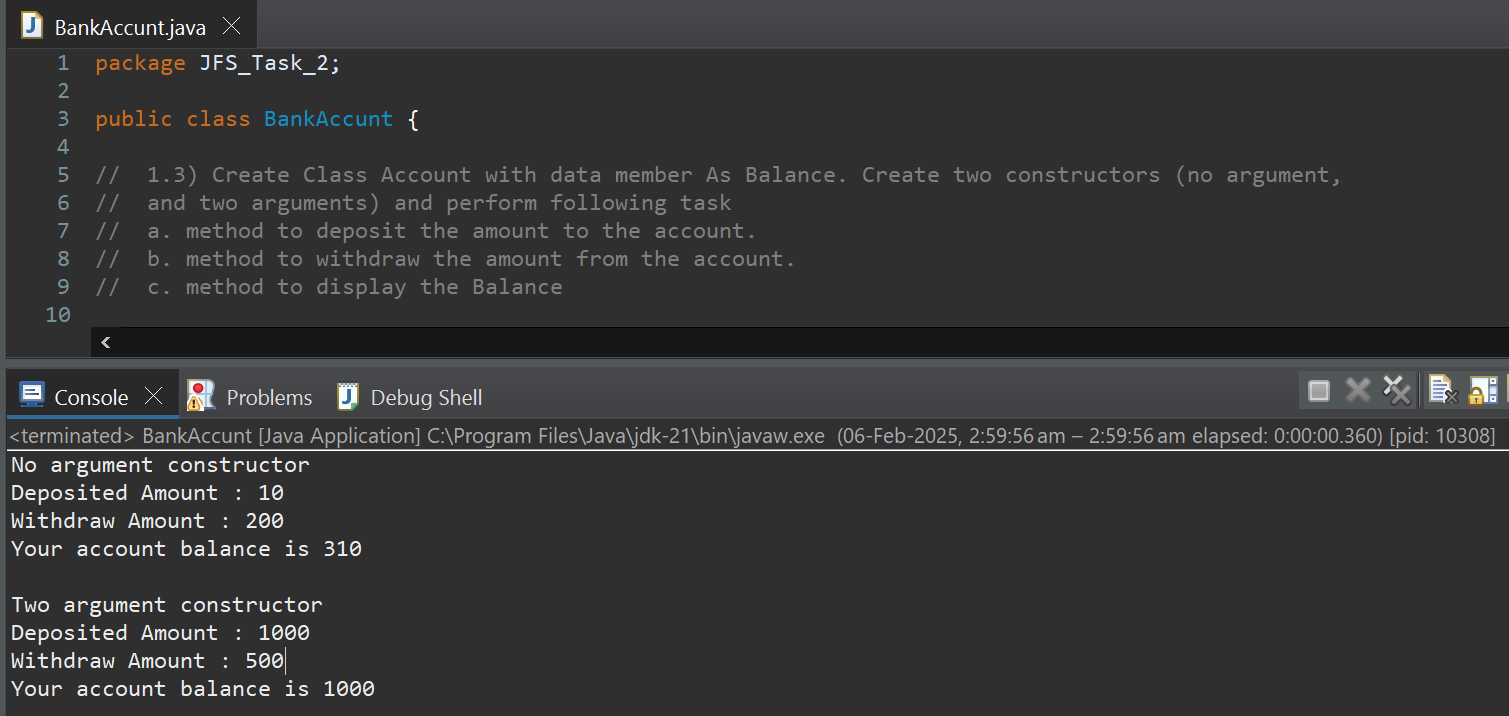
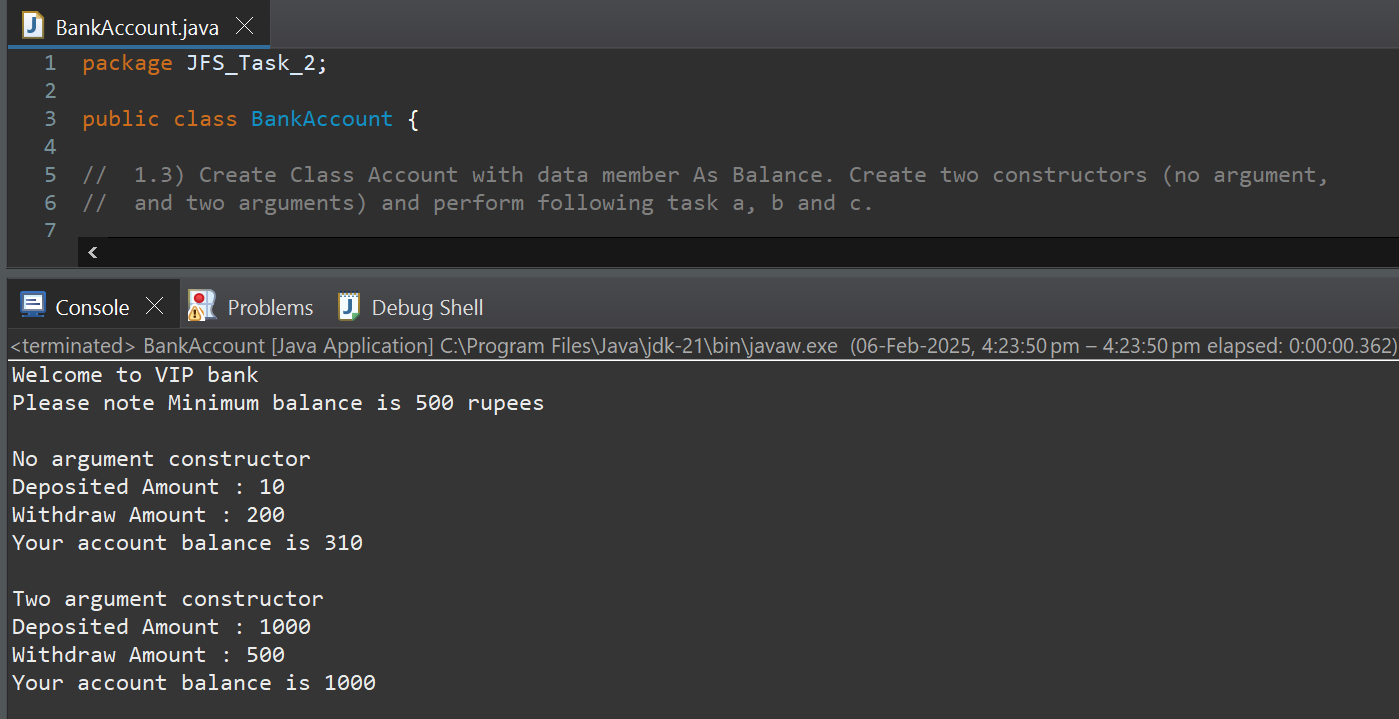
bankaccount.png changed

Changed region(s): [[0.0, 0.0, 1.0, 0.9832]]

diff --git a/src/JFS_Task_2/BankAccount.java b/src/JFS_Task_2/BankAccount.java
@@ -65,12 +65,11 @@ public class BankAccount {
 
 	public static void main(String[] args) {
 
-<<<<<<< HEAD
+
 		System.out.println("Welcome to VIP bank");
 		System.out.println("Please note Minimum balance is 500 rupees");
 		System.out.println();
-=======
->>>>>>> d0a3402239e910a44747462e23595e7d106e9e9d
+
 		System.out.println("No argument constructor");
 		BankAccount Account1 = new BankAccount();
 		Account1.Deposit(10);
